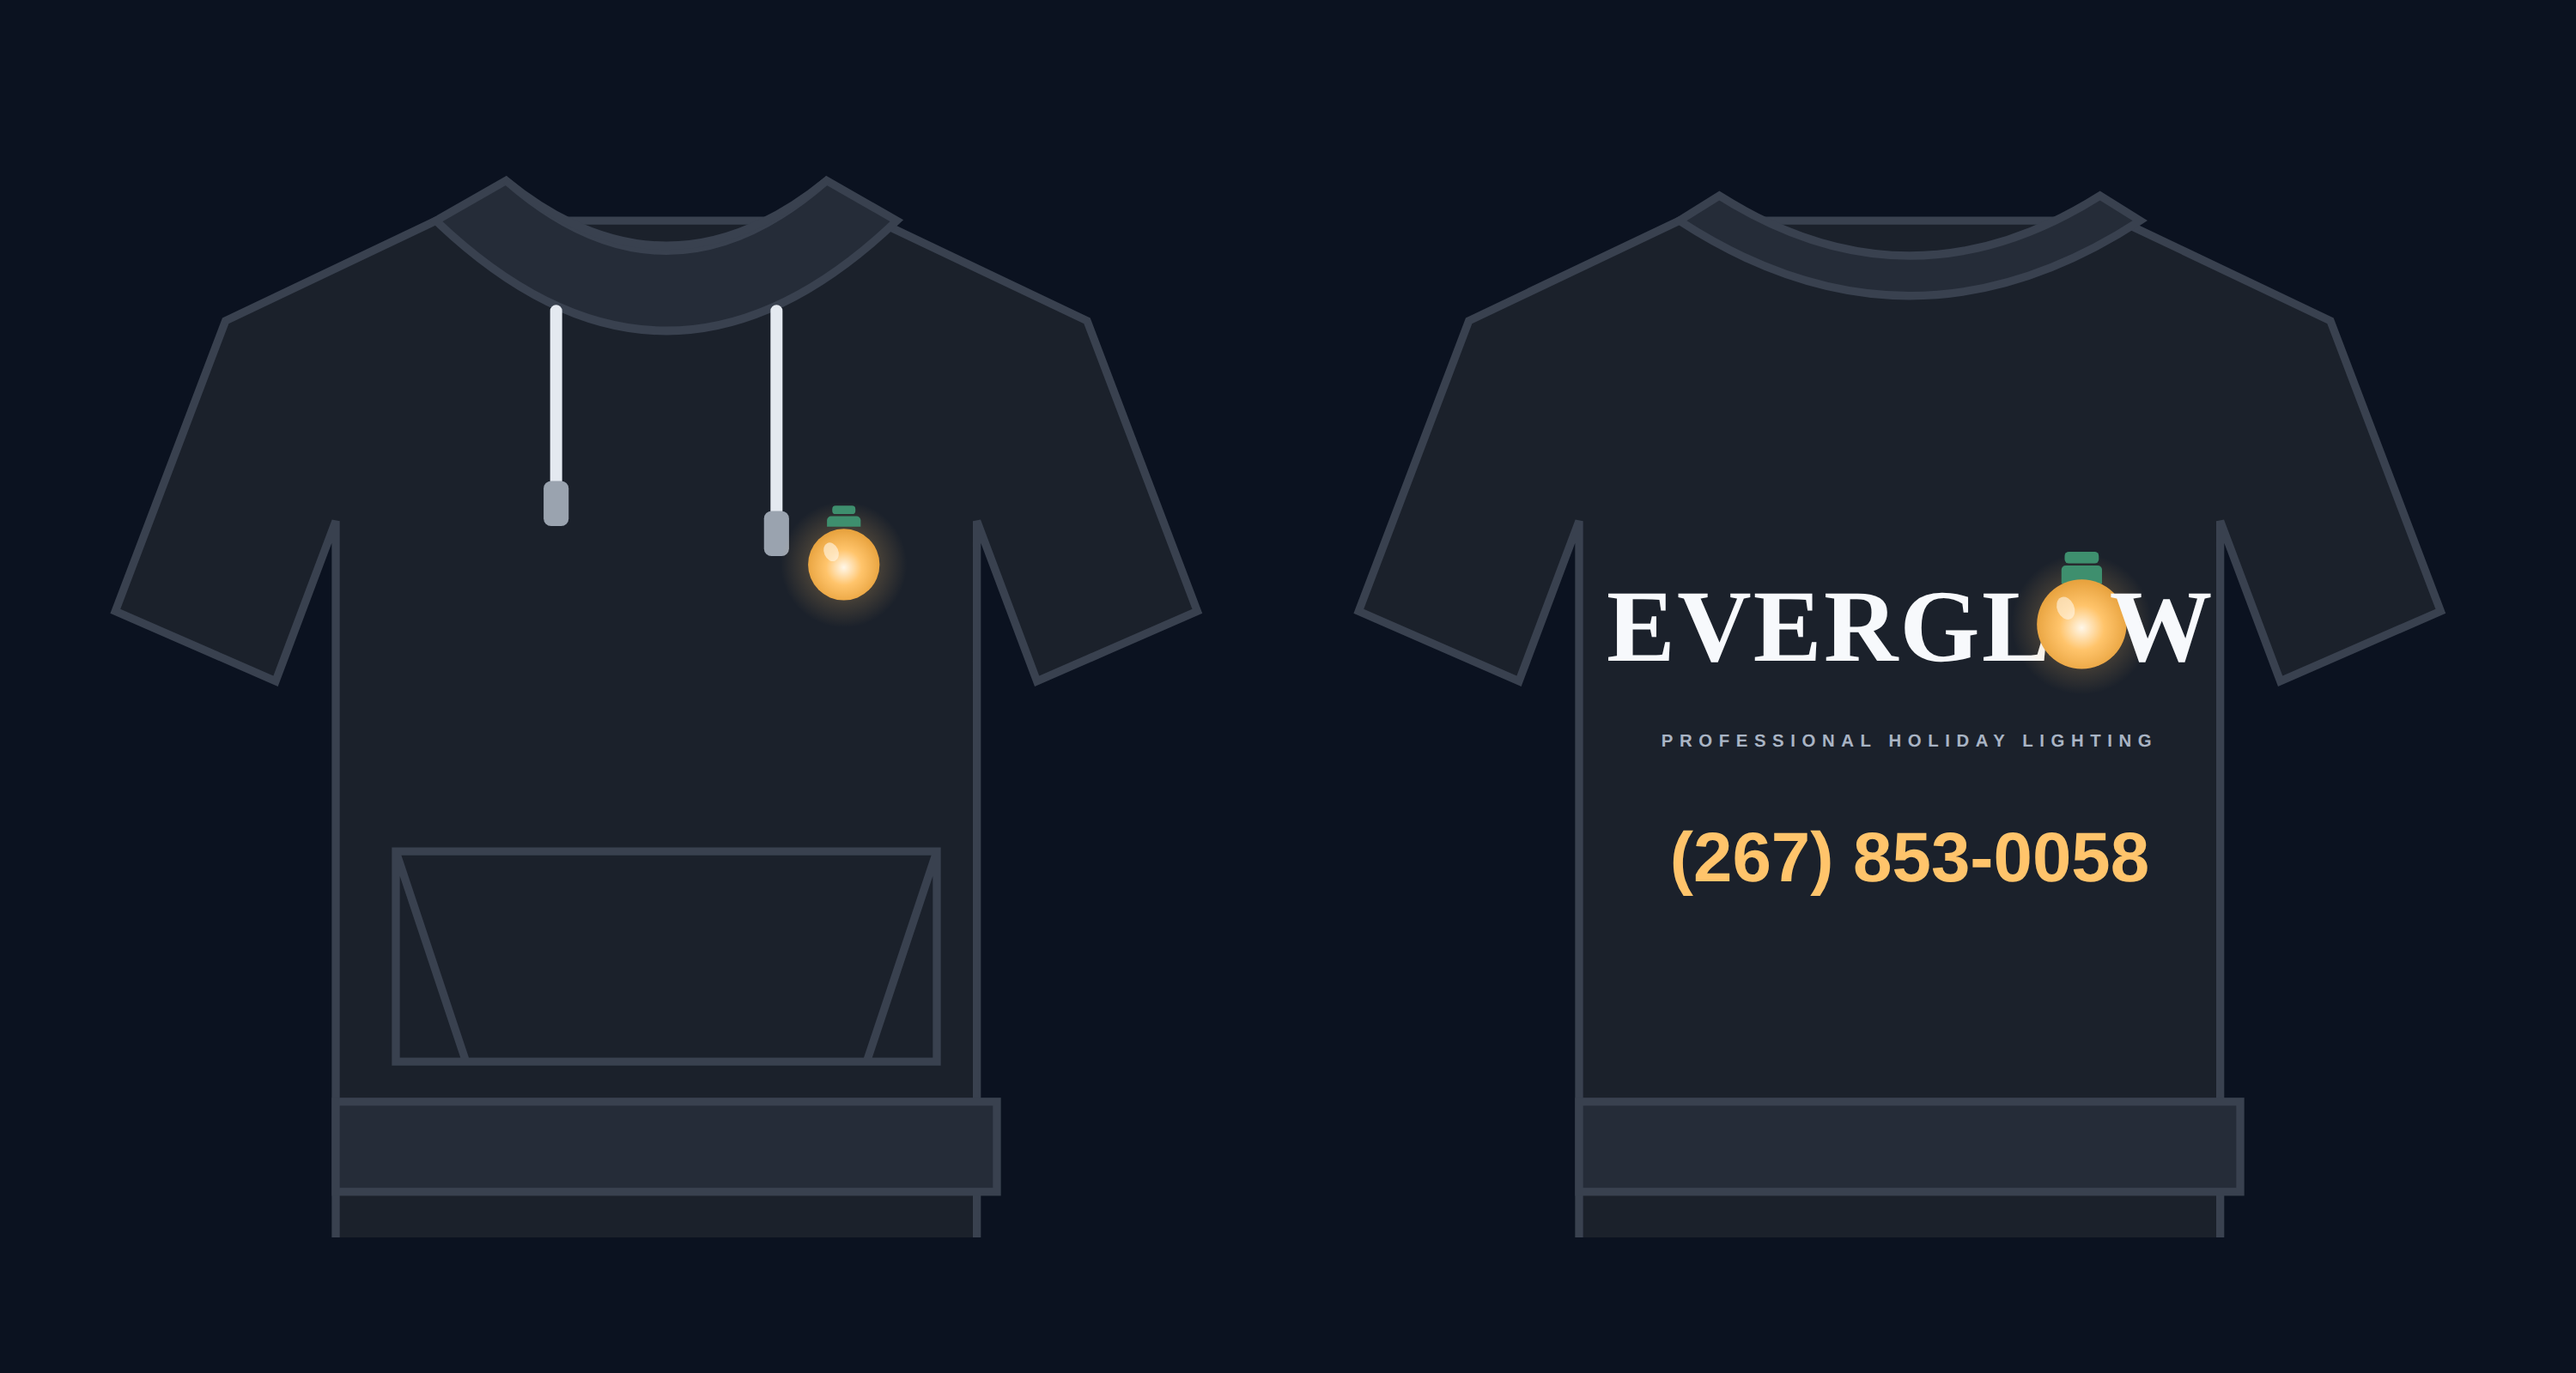
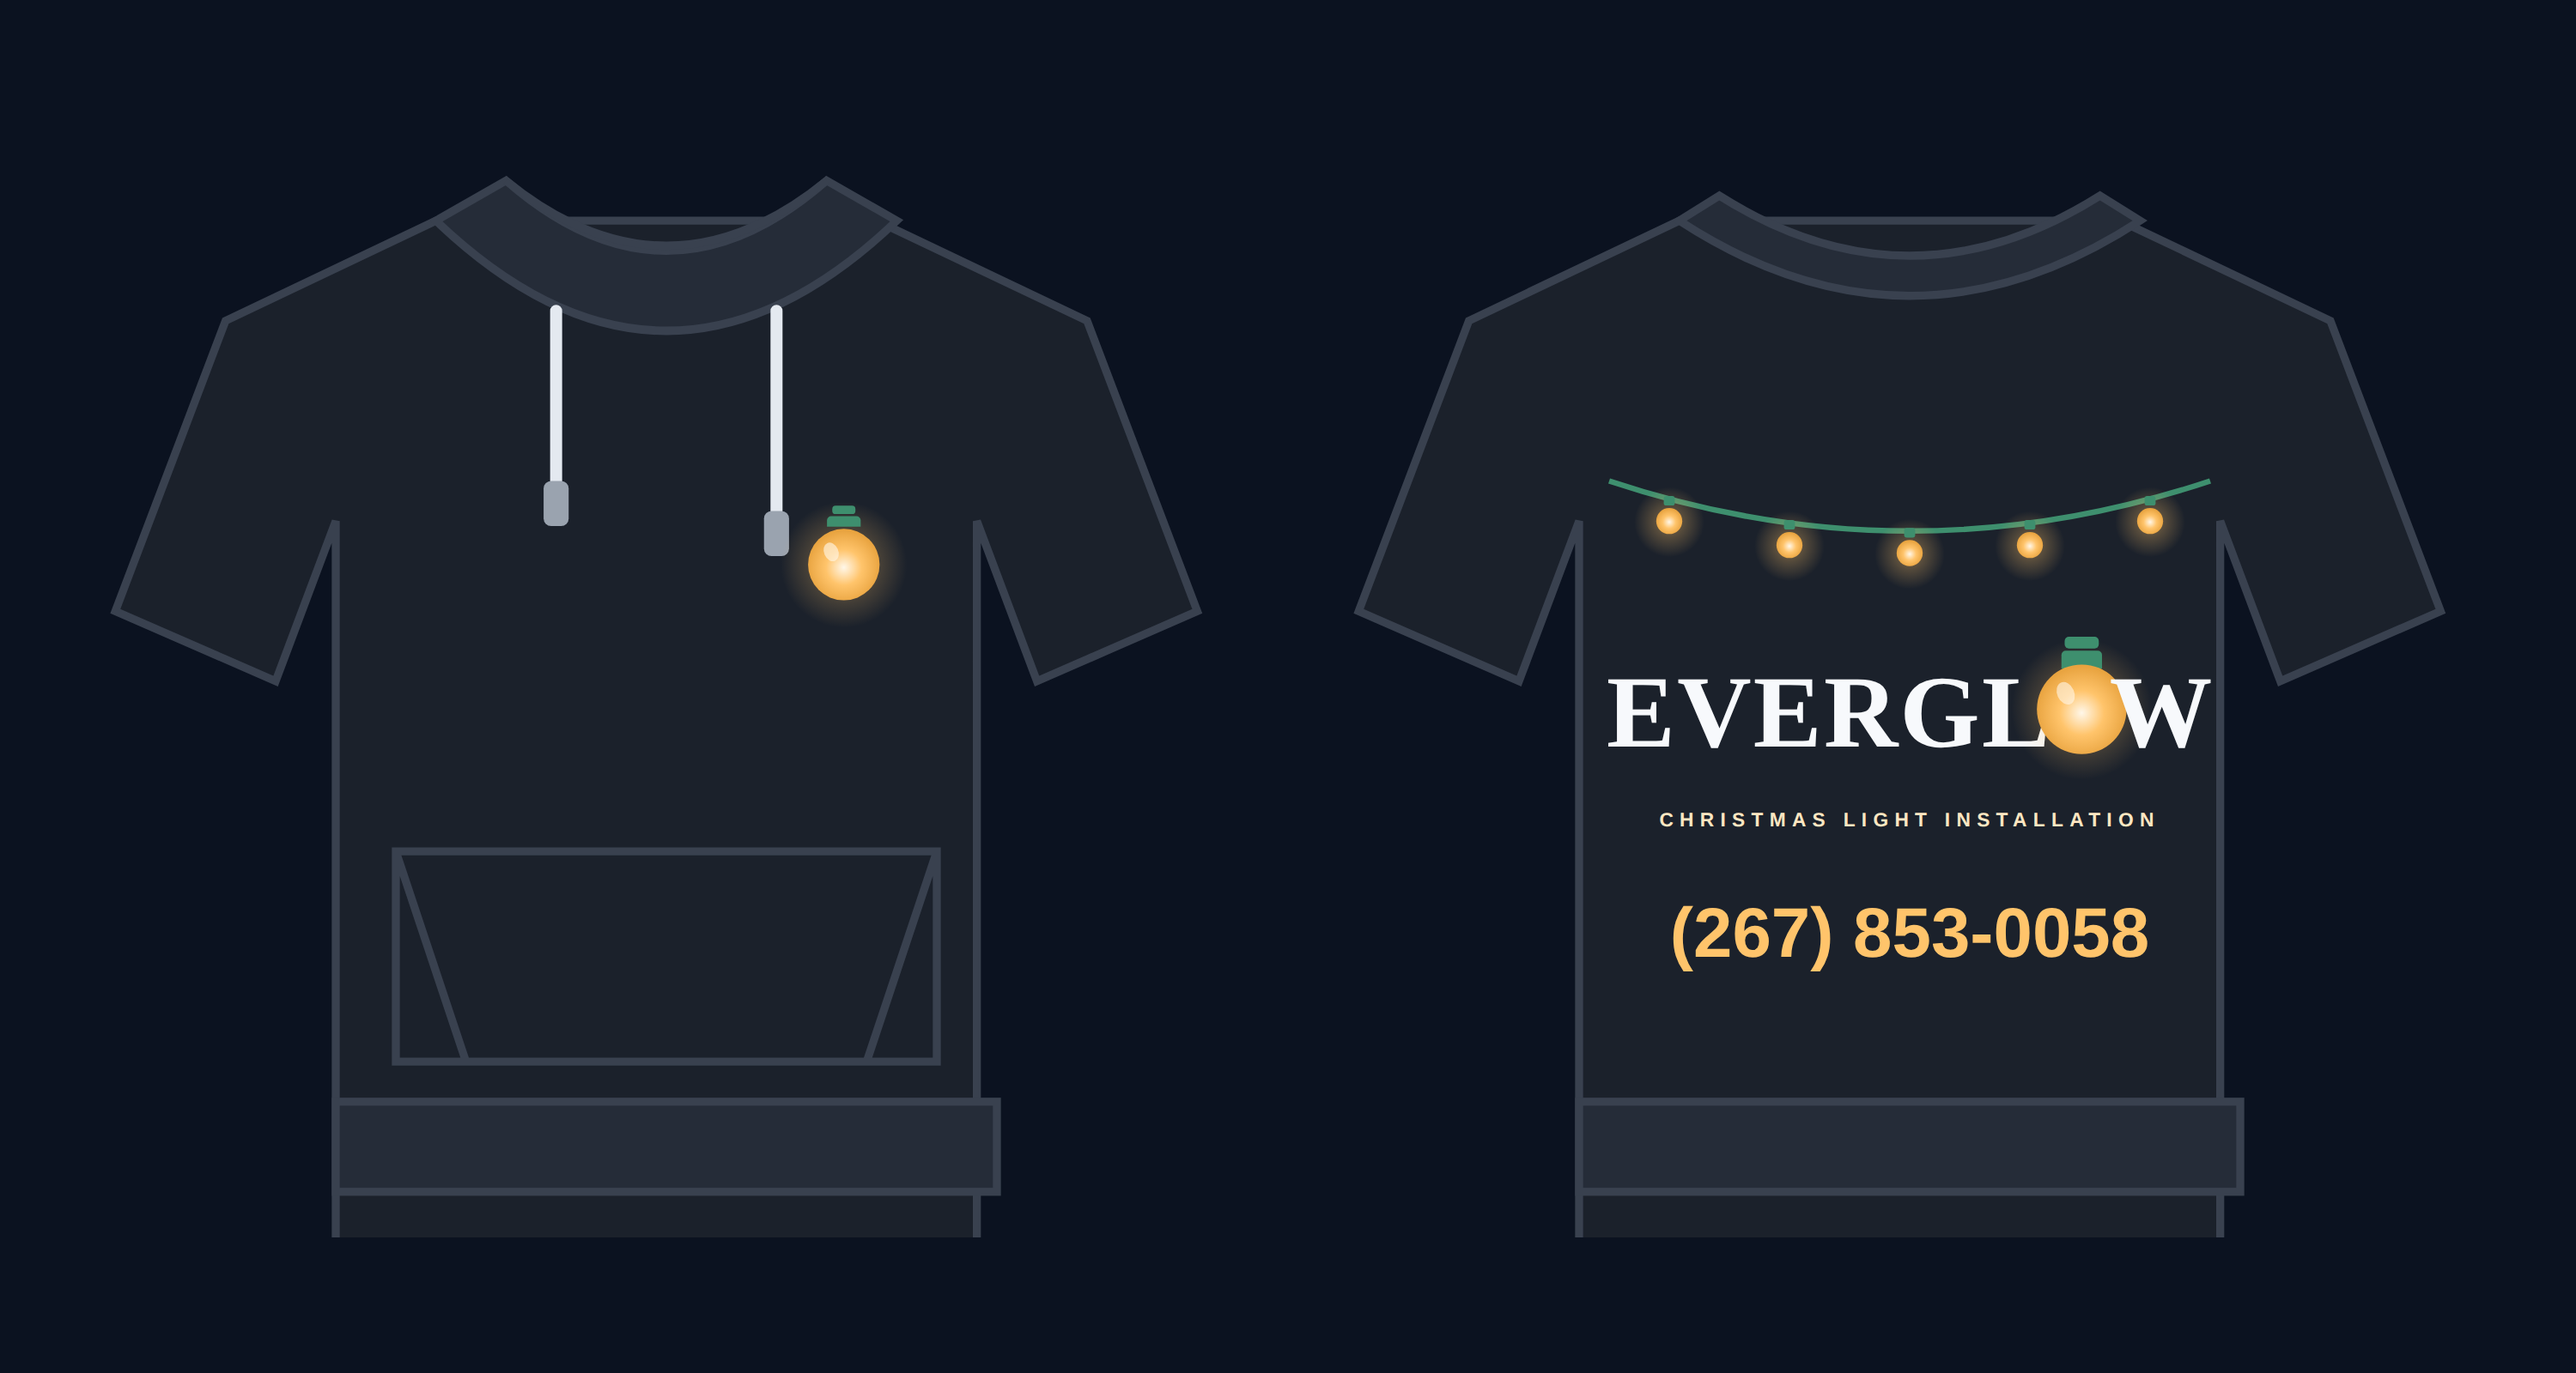
Make the back say Christmas lights, in words and in picture
"Professional holiday lighting" is how the trade talks, not how a
homeowner does, and EVERGLOW on its own says nothing about the work. So
the descriptor becomes CHRISTMAS LIGHT INSTALLATION, and a strung-lights
graphic sits above the wordmark -- that reads before any word does, at
any distance.

Descriptor moves to warm white so it carries at range; the string is
frost-green wire with amber bulbs, cheap in stitches for how much it
does. Sized to 100u against the 99u target and verified inside the
torso panel.

Back-lockup PDF and the embroiderer README regenerated to match, with a
note not to drop the string to save stitch count.

Changed region(s): [[0.62, 0.3438, 0.868, 0.5625], [0.651, 0.5938, 0.837, 0.7188]]

diff --git a/assets/print/embroidery/README.md b/assets/print/embroidery/README.md
@@ -31,6 +31,9 @@ embroidery. We expect to reorder, so keep the stitch files on hand.
 | Left chest | `mark-3in.svg` | 3in wide | Standard left-chest, ~7in down from shoulder seam |
 | Back | `back-lockup-11in.pdf` | 11in wide | Centred, ~4in below collar seam |
 
+The back carries a strung-lights graphic above the wordmark. It is what tells a
+passer-by the trade before they read a word — please don't drop it to save stitches.
+
 ---
 
 ## Thread colours
@@ -43,7 +46,9 @@ Match to Madeira / Isacord equivalents — these are the source hexes:
 | Bulb highlight | Warm white | `#FFF7E9` |
 | Bulb cap / ferrule | Frost green | `#3E8F6E` |
 | Wordmark EVERGL_W | Snow | `#F7F9FC` |
-| PROFESSIONAL HOLIDAY LIGHTING | Slate | `#93A2B8` |
+| CHRISTMAS LIGHT INSTALLATION | Warm white | `#FFE7C2` |
+| Light-string wire | Frost green | `#3E8F6E` |
+| String bulbs | Bulb amber | `#FFC46B` |
 | Phone number | Bulb amber | `#FFC46B` |
 
 ## Notes for the digitiser
@@ -52,9 +57,11 @@ Match to Madeira / Isacord equivalents — these are the source hexes:
    tones, lightest at the upper left, darkest at the lower right. How this is handled is
    the single thing that decides whether the mark looks good — please send a sew-out.
 2. **No puff, no 3D foam, no bevel, no outline** on the mark. Flat fill only.
-3. **The back may be better as tackle twill** than embroidery. At 11in the wordmark is a
+3. **The string of lights** is a simple curved run with five bulbs — satin stitch on
+   the wire, fill on the bulbs. Cheap in stitches, and it does the most work.
+4. **The back may be better as tackle twill** than embroidery. At 11in the wordmark is a
    high stitch count — stiff and expensive. Please quote both ways.
-4. Do not stretch, rotate or arch the wordmark.
+5. Do not stretch, rotate or arch the wordmark.
 
 ---
 
